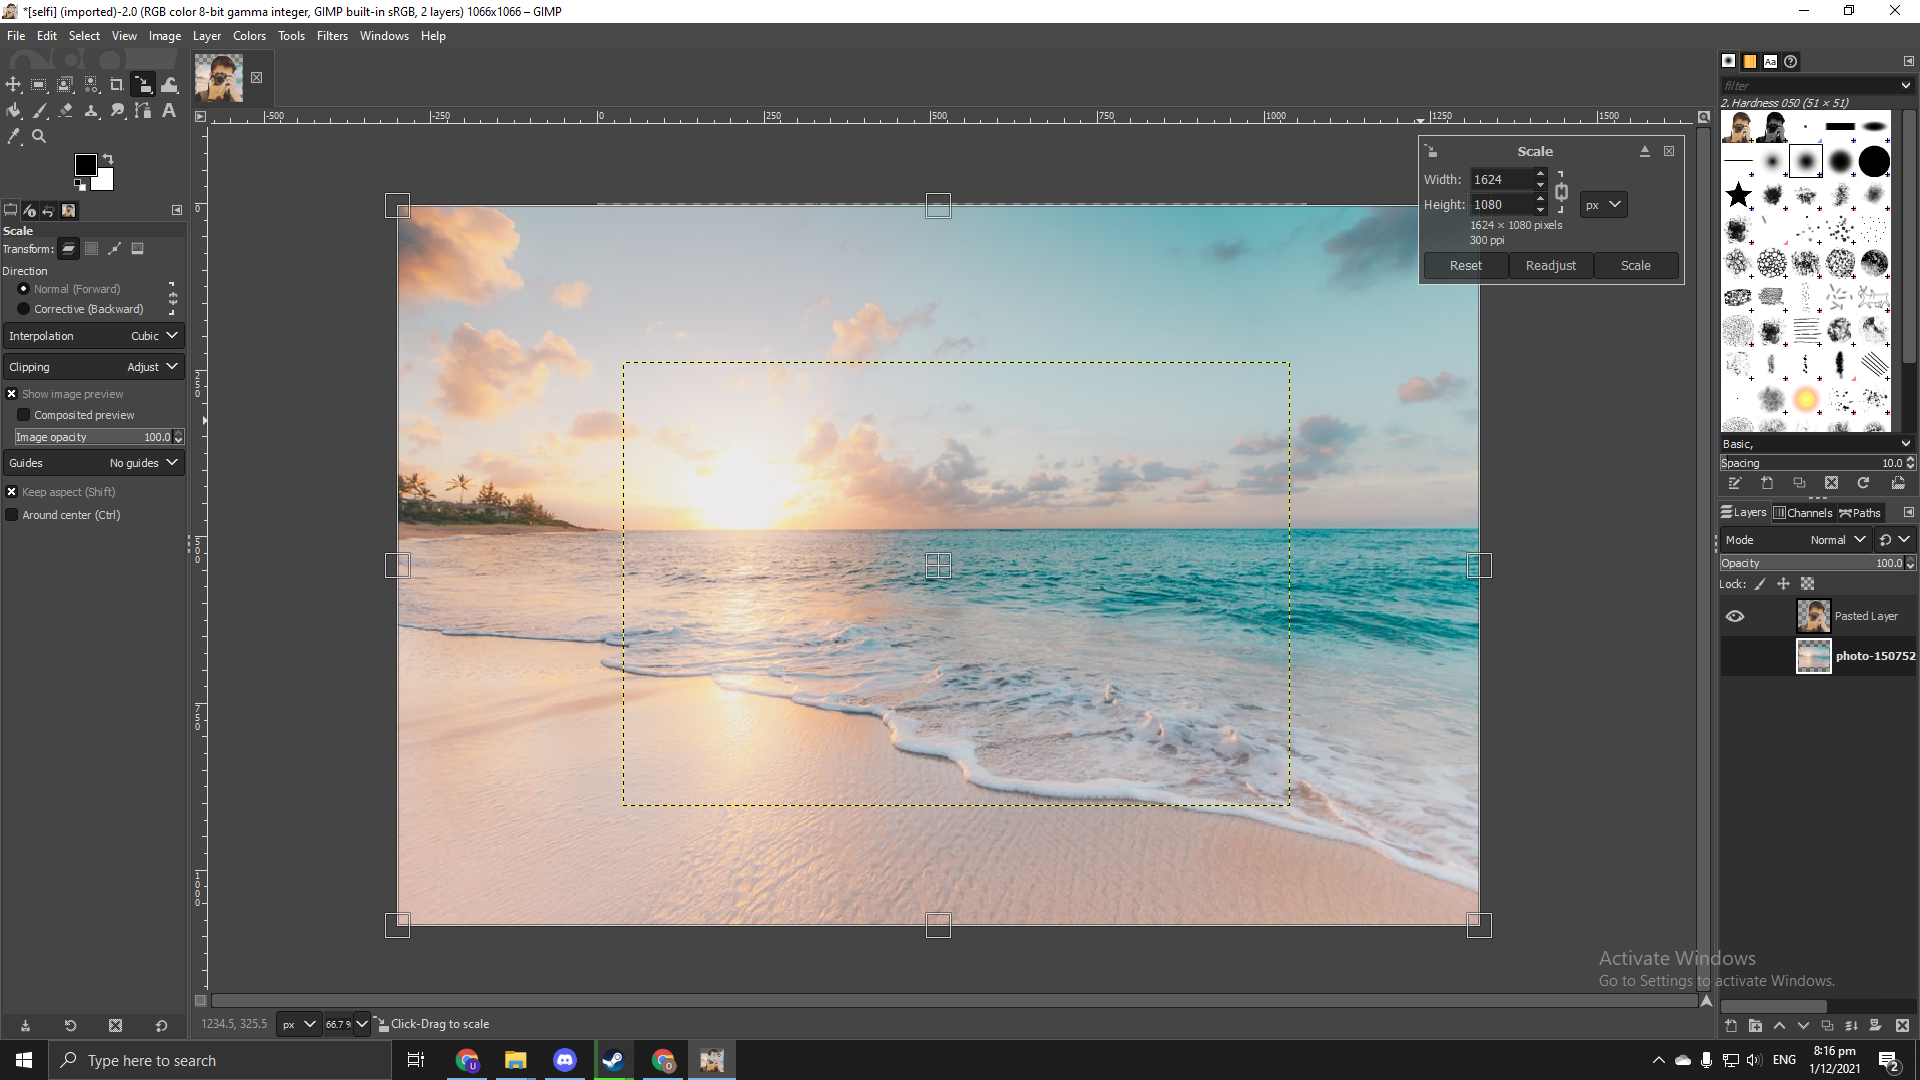
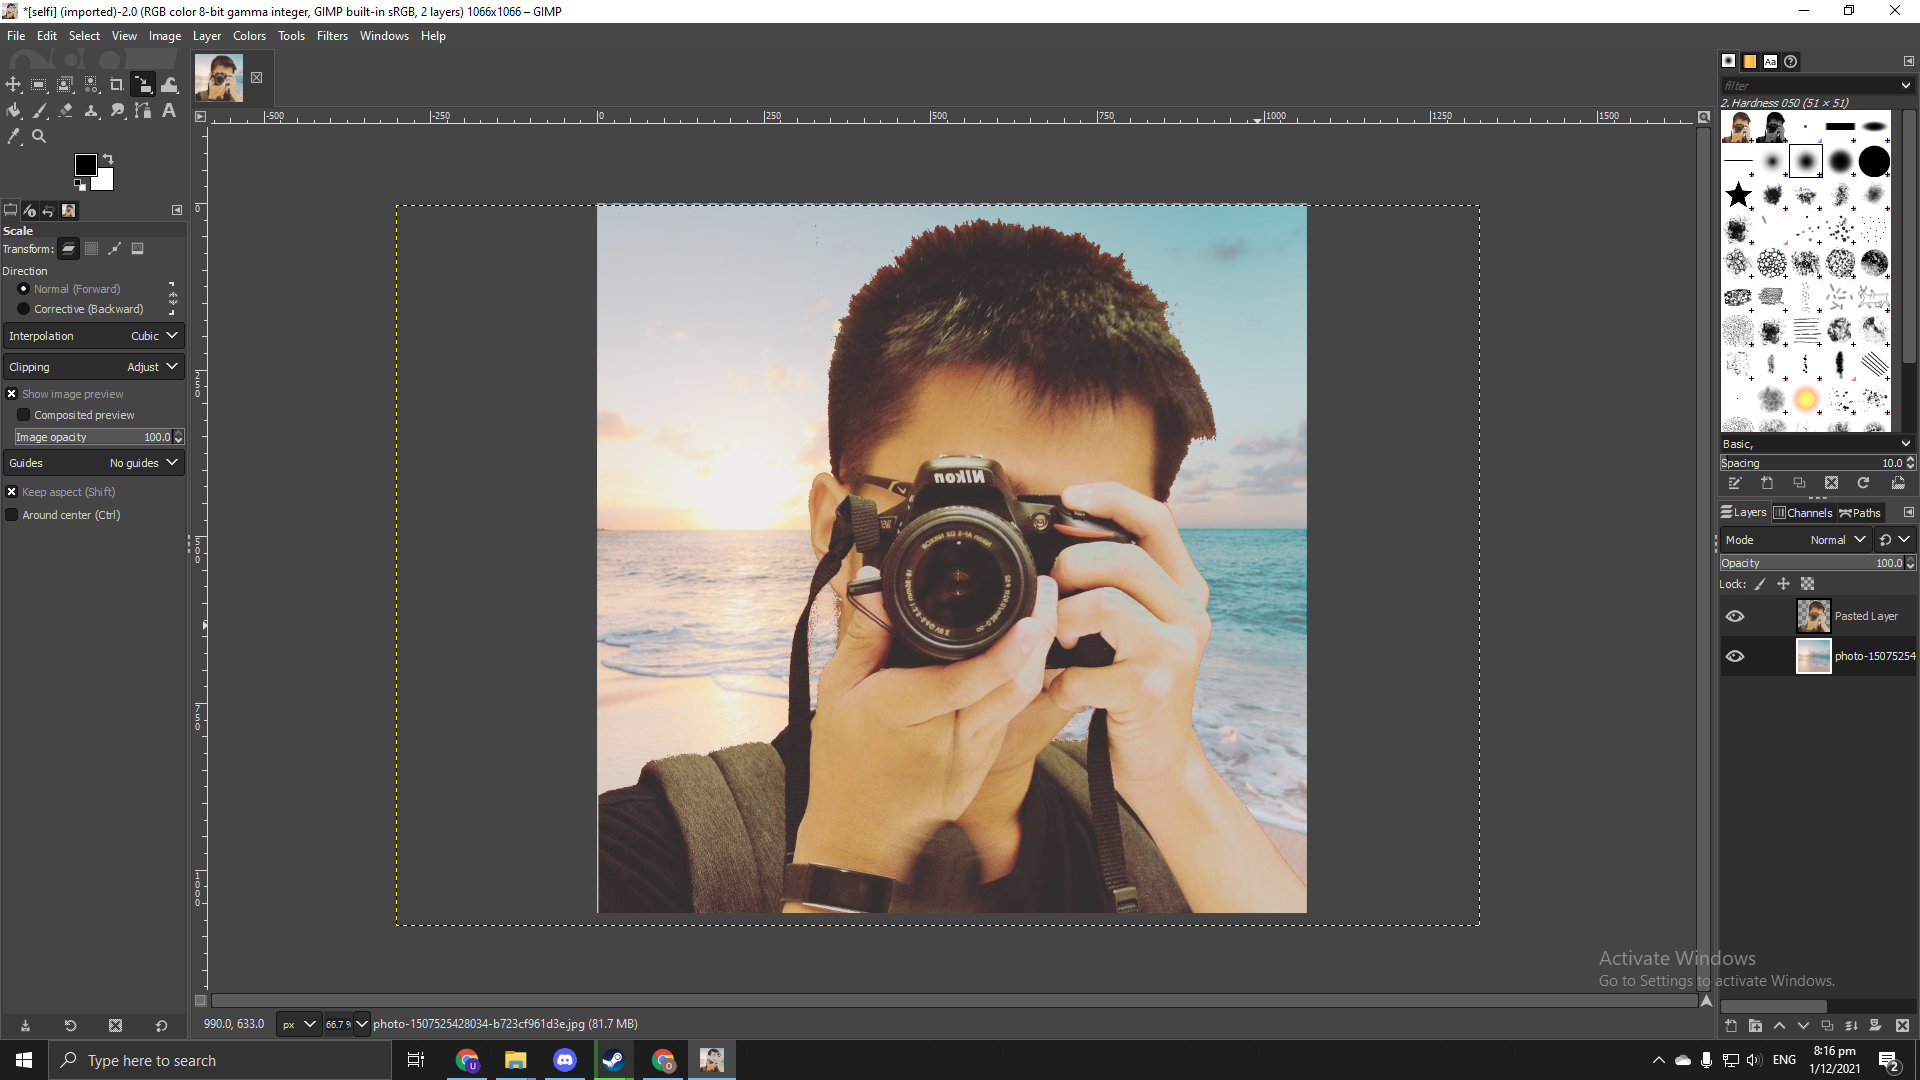
Added Gimp

diff --git a/doc.html b/doc.html
@@ -342,7 +342,10 @@
 <h4>It's a good habit to ensure there is no sharp edges in your designs as it would into an area of concentrated stress.</h4>
 </div>
 </div>
+</div>
+</div>
 <!--End-->
+
 
 <!--Using Gimp-->
 <div id="box">
@@ -354,28 +357,65 @@
       <!--Introduction-->
       <th>
       <div id="boxcc">
-        <h4>Knowing the dimention of the part you are designing and making is the first thing you should do, provided below are the dimension of the knight piece</h4>
+        <h4 align="center">This is to show how I used Gimp to change the background from my selfi.<br>Get to know your tools before you start working!</h4>\
+
+<div id="boxce">
         <table align="center">
           <tr>
-            <th><img src="images/gimp/lazyboi.png" alt="lazyboi" width="450" height="450"></th>
-            <th><h3>Take the dimensions of the knight piece to be<br> the one in the photo to the left.
-              Before we step into fusion 360 <br>This 2 shortcut keys would be your best friend! so keep that in mind.
+            <th><img id="flatimages" src="images/gimp/tools.png" alt="tools" width="550" height="450"></th>
+            <th><h3>Importing the photo in is as easy as dragging it in!<br>
+              Remember to export your photo as .png once you finish your work.
               <ol>
-                <li>Shift+Middle mouse key to orbit</li>
-                <li>Middile mouse key to move around</li>
+                <li>Shift+Middle mouse key to zoom in</li>
+                <li>Middile mouse key scroll up or down</li>
+                <li>You are going to use Shift+O a lot</li>
               </ol>
             </h3>
-          </tr>
-        </table>
 
+          </tr>
+
+        </table>
+</div>
+<br>
+        <!--Step 1-->
+        <div id="boxce">
+        <h3 align="center">Step 1</h3>
+        <br>
+        <img id="flatimages" src="images/gimp/step1.png" alt="tools" width="450" height="350">
+        <h3 align="center">Import your image by dragging it in.</h3>
+        </div>
+        <!--End-->
+<br>
+        <!--Step 2-->
+        <div id="boxce">
+        <h3 align="center">Step 2</h3>
+        <br>
+        <img id="flatimages" src="images/gimp/step2.png" alt="tools" width="450" height="350">
+        <h3 align="center">Under Color tools, select "select by color(shift+o)" select and cut out the background</h3>
+        </div>
+        <!--End-->
+<br>
+        <!--Step 3-->
+        <div id="boxce">
+        <h3 align="center">Step 3</h3>
+        <br>
+        <img id="flatimages" src="images/gimp/step3.png" alt="tools" width="450" height="350">
+        <h3 align="center">Import the background by dragging it in and use the scaling too(Shift+S) to scale the image to your liking.</h3>
+        </div>
+        <!--End-->
+<br>
+        <!--Step 4-->
+        <div id="boxce">
+        <h3 align="center">Step 4</h3>
+        <br>
+        <img id="flatimages" src="images/gimp/step4.png" alt="tools" width="450" height="350">
+        <h3 align="center">If done correctly, the background layer should be behind your selfie giving the photo a new background.<br>If the background appears before the selfie, move the layer back in the layer selection menu.</h3>
+        </div>
+        <!--End-->
 
 </div>
-<!--End-->
-
-
-
-    </div>
-  </div>
+</div>
+</div>
 <!--End-->
 
 <!--back to top-->

diff --git a/stylesheet.css b/stylesheet.css
@@ -133,6 +133,14 @@ margin-left: auto;
 margin-right: auto;
 }
 
+#flatimages{
+width: 80%;
+height: auto;
+display: block;
+margin-left: auto;
+margin-right: auto;
+}
+
 .center.center {
 display: block;
 margin-left: auto;
